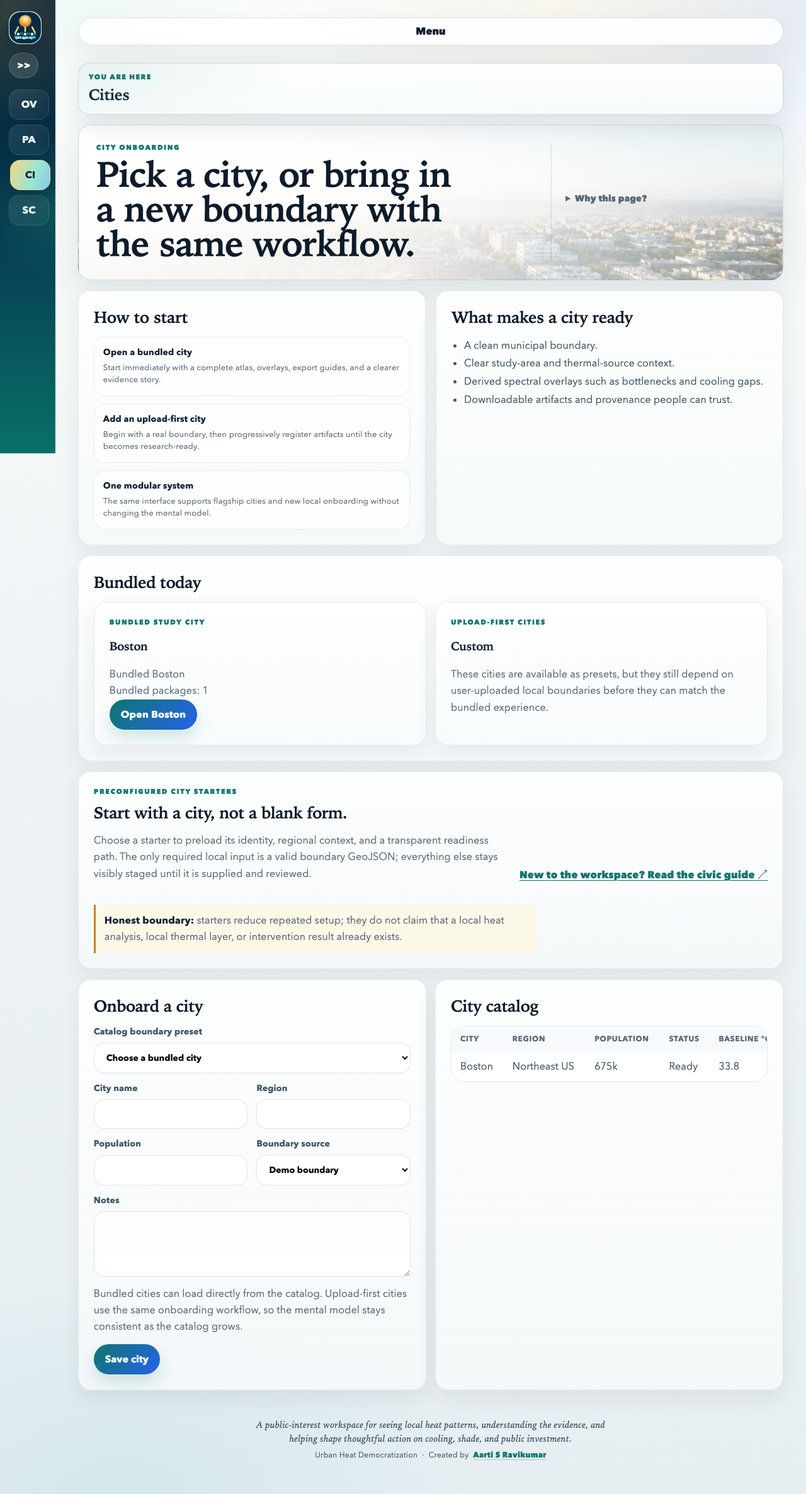
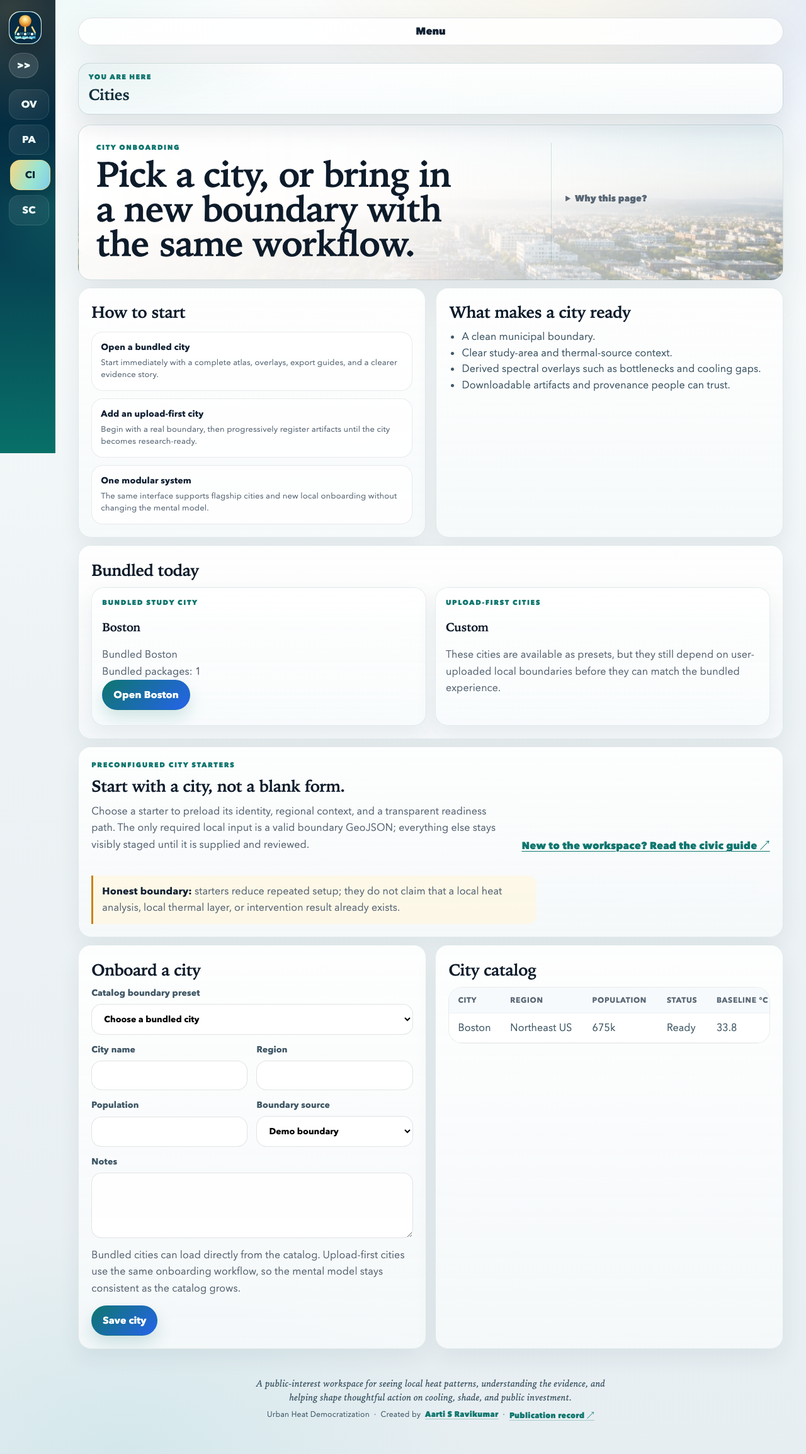
layout fixes

diff --git a/web/src/styles/city-detail.css b/web/src/styles/city-detail.css
@@ -1,26 +1,36 @@
+.city-detail-page { gap: 12px; }
+.city-detail-page .city-hero { padding: clamp(18px, 2vw, 24px); }
+.city-detail-page .city-hero-copy { gap: 10px; }
+.city-detail-page .city-hero-copy > p { margin: 0; }
+.city-detail-page .hero-card-stats { grid-template-columns: repeat(2, minmax(0, 1fr)); gap: 8px; }
+.city-detail-page .hero-card-stats div { padding: 12px; border-radius: 16px; }
+.city-detail-page .hero-card-stats strong { font-size: 21px; }
+
 .city-experience-navigation {
-  display: grid;
-  grid-template-columns: minmax(15rem, 0.7fr) minmax(0, 1.3fr);
-  gap: clamp(14px, 2vw, 28px);
+  display: flex;
   align-items: center;
-  padding: clamp(16px, 2vw, 24px);
+  justify-content: space-between;
+  gap: 12px;
+  padding: 8px 10px;
   border: 1px solid color-mix(in srgb, var(--line) 82%, var(--accent));
-  border-radius: 20px;
-  background: linear-gradient(120deg, color-mix(in srgb, var(--panel) 94%, white), color-mix(in srgb, var(--surface) 92%, var(--accent) 8%));
+  border-radius: 16px;
+  background: color-mix(in srgb, var(--panel) 94%, var(--surface));
 }
 
-.city-experience-navigation-copy p { max-width: 48ch; margin: 6px 0 0; color: var(--muted); }
+.city-experience-navigation-copy { display: flex; align-items: center; gap: 8px; min-width: max-content; }
+.city-experience-navigation-copy .eyebrow { margin: 0; }
+.city-experience-navigation-copy p { display: none; }
 .city-hero { background: radial-gradient(760px 280px at 0% 0%, rgba(15, 118, 110, 0.12), transparent 60%), radial-gradient(560px 240px at 100% 0%, rgba(59, 130, 246, 0.10), transparent 58%), radial-gradient(420px 180px at 72% 88%, rgba(20, 184, 166, 0.08), transparent 54%), var(--panel); }
 .city-hero-copy { display: grid; gap: 14px; }
 .premium-city-hero { box-shadow: var(--shadow-strong); }
 .premium-city-data-card { background: radial-gradient(520px 180px at 100% 0%, rgba(37, 99, 235, 0.08), transparent 58%), linear-gradient(180deg, rgba(255,255,255,0.94), rgba(245,249,250,0.86)); }
-.city-experience-navigation-tabs { display: grid; grid-template-columns: repeat(3, minmax(0, 1fr)); gap: 8px; }
-.city-experience-navigation-tabs a { display: grid; gap: 4px; min-height: 72px; padding: 12px; border: 1px solid color-mix(in srgb, var(--line) 84%, var(--accent)); border-radius: 14px; color: var(--ink); background: color-mix(in srgb, var(--panel) 92%, white); text-decoration: none; transition: border-color 160ms ease, background 160ms ease, box-shadow 160ms ease, transform 160ms ease; }
+.city-experience-navigation-tabs { display: flex; flex-wrap: wrap; justify-content: end; gap: 6px; }
+.city-experience-navigation-tabs a { display: inline-flex; align-items: center; min-height: 38px; padding: 7px 12px; border: 1px solid color-mix(in srgb, var(--line) 84%, var(--accent)); border-radius: 999px; color: var(--ink); background: color-mix(in srgb, var(--panel) 92%, white); text-decoration: none; transition: border-color 160ms ease, background 160ms ease, box-shadow 160ms ease, transform 160ms ease; }
 .city-experience-navigation-tabs a:hover { border-color: color-mix(in srgb, var(--accent) 58%, var(--line)); transform: translateY(-1px); }
 .city-experience-navigation-tabs a:focus-visible { outline: 3px solid color-mix(in srgb, var(--accent) 60%, white); outline-offset: 3px; }
 .city-experience-navigation-tabs a.active { border-color: var(--accent); background: color-mix(in srgb, var(--accent) 14%, var(--panel)); box-shadow: inset 0 0 0 1px color-mix(in srgb, var(--accent) 34%, transparent); }
-.city-experience-navigation-tabs strong { font-size: 16px; }
-.city-experience-navigation-tabs span { color: var(--muted); font-size: 13px; line-height: 1.35; }
+.city-experience-navigation-tabs strong { font-size: 14px; }
+.city-experience-navigation-tabs span { position: absolute; width: 1px; height: 1px; overflow: hidden; clip: rect(0, 0, 0, 0); white-space: nowrap; }
 
 .atlas-shell { display: grid; gap: 20px; min-width: 0; container-type: inline-size; }
 .atlas-shell-intro { display: grid; grid-template-columns: minmax(0, 1.55fr) minmax(260px, 0.85fr); gap: 18px; align-items: start; }
@@ -35,9 +45,9 @@
 .premium-atlas-shell-card { background: radial-gradient(720px 220px at 100% 0%, rgba(15, 118, 110, 0.10), transparent 62%), linear-gradient(180deg, rgba(255,255,255,0.95), rgba(245,250,251,0.88)); }
 .premium-atlas-shell-card .atlas-shell-copy h2 { max-width: 14ch; }
 
-.city-guided-brief { display: grid; gap: clamp(16px, 2vw, 24px); overflow: hidden; border-color: color-mix(in srgb, var(--accent) 22%, var(--line)); background: linear-gradient(145deg, color-mix(in srgb, var(--panel) 96%, white), color-mix(in srgb, var(--accent) 6%, var(--surface))); }
+.city-guided-brief { display: grid; gap: 12px; padding: clamp(16px, 1.8vw, 22px); overflow: hidden; border-color: color-mix(in srgb, var(--accent) 22%, var(--line)); background: linear-gradient(145deg, color-mix(in srgb, var(--panel) 96%, white), color-mix(in srgb, var(--accent) 6%, var(--surface))); }
 .city-guided-brief-heading { display: flex; align-items: start; justify-content: space-between; gap: 18px; }
-.city-guided-brief-heading h2 { margin: 4px 0 8px; }
+.city-guided-brief-heading h2 { margin: 3px 0 0; font-size: clamp(22px, 1.8vw, 28px); }
 .city-guided-brief-heading p { max-width: 62ch; }
 .city-guided-brief-progress { flex: 0 0 auto; padding: 7px 10px; border-radius: 999px; background: color-mix(in srgb, var(--accent) 11%, var(--panel)); color: var(--ink); font-size: 13px; font-weight: 750; }
 .city-guided-brief-steps { display: grid; grid-template-columns: repeat(3, minmax(0, 1fr)); gap: 8px; }
@@ -45,13 +55,23 @@
 .city-guided-brief-steps button:hover { border-color: color-mix(in srgb, var(--accent) 55%, var(--line)); }
 .city-guided-brief-steps button.active { border-color: var(--accent); background: color-mix(in srgb, var(--accent) 14%, var(--panel)); color: var(--ink); }
 .city-guided-brief-steps button:focus-visible { outline: 3px solid color-mix(in srgb, var(--accent) 60%, white); outline-offset: 3px; }
-.city-guided-brief-answer { display: grid; grid-template-columns: minmax(0, 1.08fr) minmax(16rem, 0.92fr); gap: clamp(18px, 3vw, 36px); padding: clamp(18px, 2.4vw, 30px); border-radius: 16px; background: color-mix(in srgb, var(--surface) 84%, var(--panel)); }
-.city-guided-brief-answer h3 { margin: 6px 0 10px; font-size: clamp(22px, 2vw, 30px); }
-.city-guided-brief-answer p { margin-bottom: 0; font-size: 17px; line-height: 1.62; }
-.city-guided-brief-answer dl { display: grid; gap: 12px; margin: 0; }
+.city-guided-brief-answer { display: grid; gap: 12px; padding: 16px 18px; border-radius: 16px; background: color-mix(in srgb, var(--surface) 84%, var(--panel)); }
+.city-guided-brief-answer h3 { margin: 4px 0 8px; font-size: clamp(20px, 1.7vw, 26px); }
+.city-guided-brief-answer p { margin-bottom: 0; font-size: 16px; line-height: 1.5; }
+.city-guided-brief-context { padding-top: 10px; border-top: 1px solid var(--line); }
+.city-guided-brief-context summary { cursor: pointer; color: var(--ink); font-weight: 750; }
+.city-guided-brief-answer dl { display: grid; gap: 10px; margin: 12px 0 0; }
 .city-guided-brief-answer dl > div { padding-left: 14px; border-left: 3px solid color-mix(in srgb, var(--accent) 45%, var(--line)); }
 .city-guided-brief-answer dt { color: var(--ink); font-size: 13px; font-weight: 800; letter-spacing: 0.02em; text-transform: uppercase; }
 .city-guided-brief-answer dd { margin: 5px 0 0; color: var(--muted); line-height: 1.5; }
+.city-secondary-section { padding: 0; }
+.city-secondary-section > .premium-summary { display: block; padding: 16px 20px; cursor: pointer; }
+.city-secondary-section > .premium-section-card { margin: 0; border: 0; border-top: 1px solid var(--line); border-radius: 0; box-shadow: none; }
+.city-secondary-section > .premium-section-card::before { display: none; }
+.city-detail-page .panel-grid.two-col > .nested-card { align-self: start; }
+.city-detail-page .metric-list { grid-template-columns: repeat(2, minmax(0, 1fr)); gap: 8px; }
+.city-detail-page .metric-list div { padding: 10px 12px; border-radius: 14px; }
+.city-detail-page .metric-list strong { margin-bottom: 1px; font-size: 20px; }
 
 .sr-only { position: absolute; width: 1px; height: 1px; padding: 0; margin: -1px; overflow: hidden; clip: rect(0, 0, 0, 0); white-space: nowrap; border: 0; }
 .city-evidence-ledger { display: grid; gap: 16px; }
@@ -93,7 +113,9 @@
 }
 
 @media (max-width: 840px) {
-  .city-experience-navigation { grid-template-columns: 1fr; }
+  .city-experience-navigation { align-items: stretch; flex-direction: column; }
+  .city-experience-navigation-tabs { justify-content: stretch; }
+  .city-experience-navigation-tabs a { flex: 1 1 0; justify-content: center; }
 }
 
 @media (max-width: 720px) {
@@ -114,6 +136,8 @@
 }
 
 @media (max-width: 560px) {
-  .city-experience-navigation-tabs { grid-template-columns: 1fr; }
-  .city-experience-navigation-tabs a { min-height: 56px; }
+  .city-experience-navigation-tabs { display: grid; grid-template-columns: repeat(3, minmax(0, 1fr)); }
+  .city-experience-navigation-tabs a { min-height: 42px; padding: 7px; }
+  .city-detail-page .metric-list { grid-template-columns: 1fr; }
+  .city-detail-page .hero-card-stats { grid-template-columns: 1fr; }
 }

diff --git a/web/src/routes/home.tsx b/web/src/routes/home.tsx
@@ -91,45 +91,48 @@ export function HomePage() {
         </div>
       </article>
 
-      <section className="panel-card premium-feature-card" aria-labelledby="wiki-resources-title">
-        <div className="feature-callout-grid">
-          <div>
-            <div className="eyebrow">Open learning library</div>
-            <h2 id="wiki-resources-title">Read the Urban Heat Democratization Wiki</h2>
-            <p className="muted">The project wiki explains the mission, methods, evidence standards, city onboarding, governance, and technical terms behind the atlas.</p>
-          </div>
-          <div className="quick-links">
-            <a className="button-link" href="https://aartisr.github.io/urban-heat-democratization/wiki/">Open the research Wiki</a>
-            <a className="button-link secondary" href="https://aartisr.github.io/urban-heat-democratization/wiki/math/">Mathematical foundations</a>
-          </div>
+      <details className="panel-card premium-feature-card home-secondary-section">
+        <summary>Research library, methods, and participation</summary>
+        <div className="home-secondary-section-content">
+          <section aria-labelledby="wiki-resources-title">
+            <div className="feature-callout-grid">
+              <div>
+                <div className="eyebrow">Open learning library</div>
+                <h2 id="wiki-resources-title">Read the Urban Heat Democratization Wiki</h2>
+                <p className="muted">The project wiki explains the mission, methods, evidence standards, city onboarding, governance, and technical terms behind the atlas.</p>
+              </div>
+              <div className="quick-links">
+                <a className="button-link" href="https://aartisr.github.io/urban-heat-democratization/wiki/">Open the research Wiki</a>
+                <a className="button-link secondary" href="https://aartisr.github.io/urban-heat-democratization/wiki/math/">Mathematical foundations</a>
+              </div>
+            </div>
+            <div className="info-list">
+              <div><strong><a href="https://aartisr.github.io/urban-heat-democratization/wiki/interpretation/">Evidence and responsible use</a></strong><span>See the limits, provenance expectations, and interpretation safeguards.</span></div>
+              <div><strong><a href="https://aartisr.github.io/urban-heat-democratization/wiki/technical/">Technical reference</a></strong><span>Trace public-facing claims to source modules, tests, and method artifacts.</span></div>
+              <div><strong><a href="https://github.com/aartisr/urban-heat-democratization/blob/main/docs/wiki/05-city-onboarding-and-partnership.md">City onboarding and partnership</a></strong><span>Learn how a new city can contribute local evidence responsibly.</span></div>
+            </div>
+          </section>
+          <section aria-labelledby="urban-heat-faq-title">
+            <div className="eyebrow">Clear answers</div>
+            <h2 id="urban-heat-faq-title">Urban heat planning, explained without the black box.</h2>
+            <div className="info-list">
+              <div><strong>What is Urban Heat Democratization?</strong><span>An open, public-interest platform for examining urban heat patterns, cooling access, evidence sources, and transparent mitigation scenarios.</span></div>
+              <div><strong>What can the Boston study tell me?</strong><span>It makes documented local layers available for learning and investigation. It is a starting point for local validation—not a complete risk assessment or a decision by itself.</span></div>
+              <div><strong>Are the scenarios forecasts?</strong><span>No. They are benchmark-based exploratory tools that make assumptions and tradeoffs visible; they are not city-calibrated engineering predictions.</span></div>
+              <div><strong>Where can I verify the methods?</strong><span>Read the <a href="https://aartisr.github.io/urban-heat-democratization/wiki/math/">mathematical foundations</a> and the <a href="https://aartisr.github.io/urban-heat-democratization/wiki/technical/">technical reference</a>, then inspect the linked source artifacts.</span></div>
+            </div>
+          </section>
+          <section aria-labelledby="operationalize-title">
+            <div className="eyebrow">An invitation to participate</div>
+            <h2 id="operationalize-title">Help operationalize the work—carefully, locally, and in public.</h2>
+            <p className="muted">Community members, mentors, practitioners, researchers, educators, and public institutions can help test assumptions, improve sources, review safeguards, and shape bounded pilots. The goal is not uncritical adoption; it is a more truthful and accountable civic workflow.</p>
+            <div className="quick-links">
+              <Link to="/contact" preload="intent" className="button-link">Collaborate with the project</Link>
+              <a className="button-link secondary" href="https://github.com/aartisr/urban-heat-democratization/blob/main/docs/wiki/11-community-and-mentor-invitation.md">Read the partnership invitation</a>
+            </div>
+          </section>
         </div>
-        <div className="info-list">
-          <div><strong><a href="https://aartisr.github.io/urban-heat-democratization/wiki/interpretation/">Evidence and responsible use</a></strong><span>See the limits, provenance expectations, and interpretation safeguards.</span></div>
-          <div><strong><a href="https://aartisr.github.io/urban-heat-democratization/wiki/technical/">Technical reference</a></strong><span>Trace public-facing claims to source modules, tests, and method artifacts.</span></div>
-          <div><strong><a href="https://github.com/aartisr/urban-heat-democratization/blob/main/docs/wiki/05-city-onboarding-and-partnership.md">City onboarding and partnership</a></strong><span>Learn how a new city can contribute local evidence responsibly.</span></div>
-        </div>
-      </section>
-
-      <section className="panel-card premium-feature-card" aria-labelledby="urban-heat-faq-title">
-        <div className="eyebrow">Clear answers</div>
-        <h2 id="urban-heat-faq-title">Urban heat planning, explained without the black box.</h2>
-        <div className="info-list">
-          <div><strong>What is Urban Heat Democratization?</strong><span>An open, public-interest platform for examining urban heat patterns, cooling access, evidence sources, and transparent mitigation scenarios.</span></div>
-          <div><strong>What can the Boston study tell me?</strong><span>It makes documented local layers available for learning and investigation. It is a starting point for local validation—not a complete risk assessment or a decision by itself.</span></div>
-          <div><strong>Are the scenarios forecasts?</strong><span>No. They are benchmark-based exploratory tools that make assumptions and tradeoffs visible; they are not city-calibrated engineering predictions.</span></div>
-          <div><strong>Where can I verify the methods?</strong><span>Read the <a href="https://aartisr.github.io/urban-heat-democratization/wiki/math/">mathematical foundations</a> and the <a href="https://aartisr.github.io/urban-heat-democratization/wiki/technical/">technical reference</a>, then inspect the linked source artifacts.</span></div>
-        </div>
-      </section>
-
-      <section className="panel-card premium-feature-card" aria-labelledby="operationalize-title">
-        <div className="eyebrow">An invitation to participate</div>
-        <h2 id="operationalize-title">Help operationalize the work—carefully, locally, and in public.</h2>
-        <p className="muted">Community members, mentors, practitioners, researchers, educators, and public institutions can help test assumptions, improve sources, review safeguards, and shape bounded pilots. The goal is not uncritical adoption; it is a more truthful and accountable civic workflow.</p>
-        <div className="quick-links">
-          <Link to="/contact" preload="intent" className="button-link">Collaborate with the project</Link>
-          <a className="button-link secondary" href="https://github.com/aartisr/urban-heat-democratization/blob/main/docs/wiki/11-community-and-mentor-invitation.md">Read the partnership invitation</a>
-        </div>
-      </section>
+      </details>
     </section>
   );
 }

diff --git a/web/src/routes/city-detail.tsx b/web/src/routes/city-detail.tsx
@@ -203,11 +203,14 @@ export function CityDetailPage() {
             ))}
           />
 
-          <CityDetailSectionGrid
-            title="Planning readiness"
-            description={cityReadinessQuery.data?.narrative ?? "This panel checks whether the city is ready for bundled study, upload-first onboarding, or only partial scenario planning."}
-            cards={detailConfig.sections.readinessCards}
-          />
+          <details className="panel-card premium-section-card city-secondary-section">
+            <summary className="premium-summary">Planning readiness and data requirements</summary>
+            <CityDetailSectionGrid
+              title="Planning readiness"
+              description={cityReadinessQuery.data?.narrative ?? "This panel checks whether the city is ready for bundled study, upload-first onboarding, or only partial scenario planning."}
+              cards={detailConfig.sections.readinessCards}
+            />
+          </details>
 
           {!cityExperienceQuery.data?.bundled ? (
             <article className="panel-card premium-section-card premium-city-data-card">
@@ -226,7 +229,10 @@ export function CityDetailPage() {
           ) : null}
 
           {cityExperienceQuery.data?.studyCards.length ? (
-            <CityDetailSectionGrid title={`${cityExperienceQuery.data.cityName} guided study workflow`} description={cityExperienceQuery.data.summary} cards={detailConfig.sections.workflowCards} actions={<>{cityExperienceQuery.data.studyGuideArtifactId ? <a href={artifactDownloadUrl(cityExperienceQuery.data.studyGuideArtifactId)} className="button-link">Open study guide</a> : null}<Link to="/scenarios" search={detailConfig.scenarioSearch} className="button-link secondary">Open scenarios</Link><Link to="/runs" className="button-link secondary">Open runs</Link></>} />
+            <details className="panel-card premium-section-card city-secondary-section">
+              <summary className="premium-summary">Study workflow, downloads, and run history</summary>
+              <CityDetailSectionGrid title={`${cityExperienceQuery.data.cityName} guided study workflow`} description={cityExperienceQuery.data.summary} cards={detailConfig.sections.workflowCards} actions={<>{cityExperienceQuery.data.studyGuideArtifactId ? <a href={artifactDownloadUrl(cityExperienceQuery.data.studyGuideArtifactId)} className="button-link">Open study guide</a> : null}<Link to="/scenarios" search={detailConfig.scenarioSearch} className="button-link secondary">Open scenarios</Link><Link to="/runs" className="button-link secondary">Open runs</Link></>} />
+            </details>
           ) : null}
         </>
       ) : null}

diff --git a/web/tests/e2e/smoke.spec.ts b/web/tests/e2e/smoke.spec.ts
@@ -383,7 +383,7 @@ test("city Read and Audit views reflow without page-level overflow on a narrow p
 
   const experience = page.getByRole("navigation", { name: "Boston evidence experience" });
   await expect(experience.getByRole("link", { name: /^Read/ })).toHaveAttribute("aria-current", "page");
-  await expect(page.getByRole("heading", { name: "One question at a time." })).toBeVisible();
+  await expect(page.getByRole("heading", { name: "Start with the evidence." })).toBeVisible();
   expect(await page.evaluate(() => document.documentElement.scrollWidth <= window.innerWidth)).toBe(true);
 
   await experience.getByRole("link", { name: /^Audit/ }).click();
@@ -453,9 +453,9 @@ test("planner persona can complete the city-detail journey", async ({ page }) =>
 
   await page.getByRole("link", { name: "Open Boston" }).click();
   await expect(page).toHaveURL(/\/cities\/boston$/);
-  await expect(page.getByRole("heading", { name: "One question at a time." })).toBeVisible();
+  await expect(page.getByRole("heading", { name: "Start with the evidence." })).toBeVisible();
   await expect(page.getByRole("button", { name: "See where heat needs attention" })).toBeVisible();
-  await expect(page.getByRole("heading", { name: "Planning readiness" })).toBeVisible();
+  await expect(page.getByText("Planning readiness and data requirements")).toBeVisible();
   await page.getByText("More ways to work with this city").click();
   await expect(page.getByRole("button", { name: "Queue a baseline run" })).toBeVisible();
   await expect(page.getByText("You are here")).toBeVisible();
@@ -468,10 +468,11 @@ test("city evidence experience preserves guided reading, audit, and shareable vi
 
   const experience = page.getByRole("navigation", { name: "Boston evidence experience" });
   await expect(experience.getByRole("link", { name: /^Read/ })).toHaveAttribute("aria-current", "page");
-  await expect(page.getByRole("heading", { name: "One question at a time." })).toBeVisible();
+  await expect(page.getByRole("heading", { name: "Start with the evidence." })).toBeVisible();
 
   await page.getByRole("button", { name: "2. Signal" }).click();
   await expect(page.getByRole("heading", { name: "What does the current study indicate?" })).toBeVisible();
+  await page.getByText("Meaning and important limit").click();
   await expect(page.getByText("A derived priority is not a diagnosis of harm, a temperature measurement, or an automatic policy recommendation.")).toBeVisible();
 
   await experience.getByRole("link", { name: /^Explore/ }).click();

diff --git a/web/src/components/city-guided-evidence-brief.tsx b/web/src/components/city-guided-evidence-brief.tsx
@@ -97,8 +97,7 @@ export function CityGuidedEvidenceBrief({ cityName, bundled, readinessLabel, spe
       <div className="city-guided-brief-heading">
         <div>
           <div className="eyebrow">Guided city brief</div>
-          <h2 id="city-guided-brief-title">One question at a time.</h2>
-          <p className="muted">This short reading path separates what is available, what it can mean, and what a responsible next step looks like.</p>
+          <h2 id="city-guided-brief-title">Start with the evidence.</h2>
         </div>
         <span className="city-guided-brief-progress">Step {activeIndex + 1} of {steps.length}</span>
       </div>
@@ -123,16 +122,19 @@ export function CityGuidedEvidenceBrief({ cityName, bundled, readinessLabel, spe
           <h3>{activeStep.title}</h3>
           <p>{activeStep.summary}</p>
         </div>
-        <dl>
-          <div>
-            <dt>What this means</dt>
-            <dd>{activeStep.meaning}</dd>
-          </div>
-          <div>
-            <dt>Important limit</dt>
-            <dd>{activeStep.limitation}</dd>
-          </div>
-        </dl>
+        <details className="city-guided-brief-context">
+          <summary>Meaning and important limit</summary>
+          <dl>
+            <div>
+              <dt>What this means</dt>
+              <dd>{activeStep.meaning}</dd>
+            </div>
+            <div>
+              <dt>Important limit</dt>
+              <dd>{activeStep.limitation}</dd>
+            </div>
+          </dl>
+        </details>
       </section>
 
       <div className="quick-links city-guided-brief-actions">

diff --git a/web/src/styles.css b/web/src/styles.css
@@ -9494,7 +9494,7 @@ body.map-fullpage-lock .sidebar-restore {
 
 .page-stack {
   width: min(100%, var(--layout-max));
-  gap: 16px;
+  gap: 12px;
 }
 
 .section-heading,
@@ -9541,6 +9541,14 @@ body.map-fullpage-lock .sidebar-restore {
   border-radius: 20px;
 }
 
+/* Shared desktop density: keep the evidence, reduce decorative vertical drift. */
+@media (min-width: 721px) {
+  .panel-card { padding: clamp(18px, 1.6vw, 22px); }
+  .nested-card { padding: clamp(14px, 1.25vw, 18px); }
+  .panel-card h2 { margin-bottom: 10px; }
+  .bullet-list { line-height: 1.6; }
+}
+
 .quick-links {
   gap: 8px;
 }
@@ -9548,6 +9556,17 @@ body.map-fullpage-lock .sidebar-restore {
 .quick-links .button-link {
   min-height: 40px;
 }
+
+.home-secondary-section { padding: 0; }
+.home-secondary-section > summary {
+  display: block;
+  padding: 16px 20px;
+  color: var(--color-text-primary);
+  cursor: pointer;
+  font-weight: 800;
+}
+.home-secondary-section-content { display: grid; gap: 20px; padding: 0 20px 20px; border-top: 1px solid var(--line); }
+.home-secondary-section-content > section { padding-top: 20px; }
 
 .story-journey-strip,
 .science-banner {

diff --git a/web/tests/e2e/gallery.spec.ts b/web/tests/e2e/gallery.spec.ts
@@ -412,7 +412,7 @@ test.beforeEach(async ({ page }) => {
 test("capture documentation screenshots", async ({ page }) => {
   await ensureScreenshotsDir();
   const captureSettledPage = async (fileName: string) => {
-    await page.waitForTimeout(700);
+    await page.waitForTimeout(1200);
     await page.screenshot({ path: path.join(screenshotsDir, fileName), fullPage: true });
   };
 
@@ -428,7 +428,7 @@ test("capture documentation screenshots", async ({ page }) => {
 
   await page.getByRole("link", { name: "Open Boston" }).click();
   await expect(page).toHaveURL(/\/cities\/boston$/);
-  await expect(page.getByRole("heading", { name: "Planning readiness" })).toBeVisible();
+  await expect(page.getByText("Planning readiness and data requirements")).toBeVisible();
   await captureSettledPage("city-detail.png");
 
   await page.goto("/scenarios");
